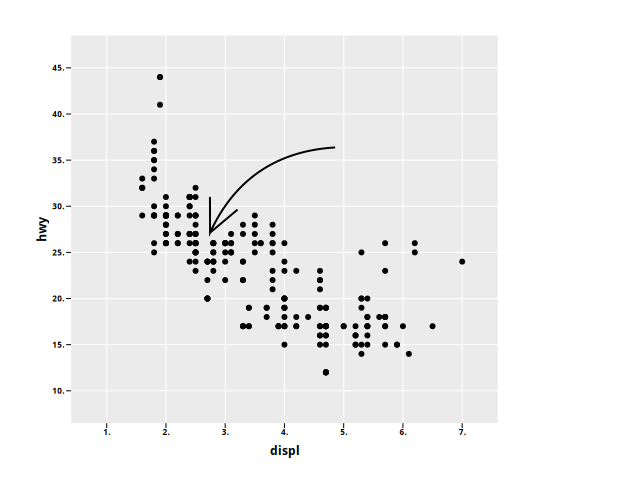
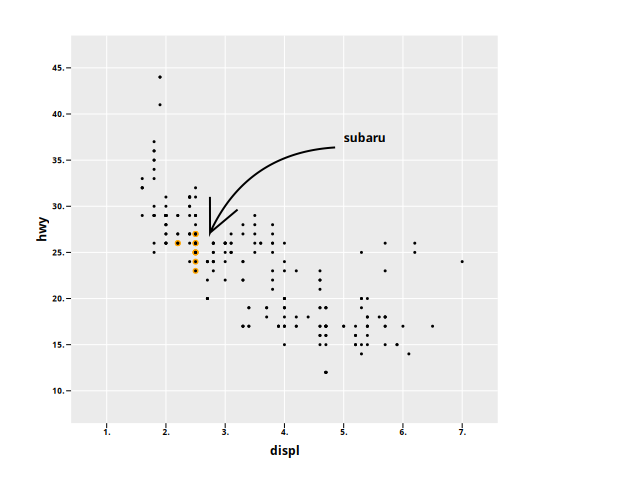
finish plot with curve and text annotation

Changed region(s): [[0.2188, 0.2812, 0.6875, 0.75], [0.5312, 0.2812, 0.5938, 0.3125], [0.625, 0.5, 0.6562, 0.5312]]

diff --git a/tests/test_plots.py b/tests/test_plots.py
@@ -515,12 +515,17 @@ def test_lines():
 
 
 def test_annotate_curve():
+    # from here https://ggplot2-book.org/annotations.html
     mpg = pd.read_csv(data_path / "mpg.csv")
     mpg["hwy"] = mpg["hwy"].astype(float)
     plot = (
         ggplot(mpg, aes("displ", "hwy"))
-        + geom_point()
+        + geom_point(
+            data=mpg.loc[mpg["manufacturer"] == "subaru"], color="orange", size=3
+        )
+        + geom_point(size=1.5)
         + annotate_curve(x=5, y=38, xend=3, yend=30, curvature=-0.3, arrow=True)
+        + annotate_text(text="subaru", x=5, y=37, background_color="transparent")
     )
     res = ggcreate(plot)
     ggdraw_plot(res, plots_path / "annotate_curve.png")

diff --git a/src/python_ggplot/gg/drawing.py b/src/python_ggplot/gg/drawing.py
@@ -56,8 +56,8 @@ class GetXYContinueException(GGException):
 
 @dataclass
 class GetXY:
-    x_series: 'pd.Series[Any]'
-    y_series: 'pd.Series[Any]'
+    x_series: "pd.Series[Any]"
+    y_series: "pd.Series[Any]"
     x_outside_range: OutsideRangeKind
     y_outside_range: OutsideRangeKind
     filled_geom: FilledGeom

diff --git a/README.md b/README.md
@@ -319,10 +319,16 @@ ggdraw_plot(res, plots_path / "geom_point_and_text.png")
 ```python
     mpg = pd.read_csv(data_path / "mpg.csv")
     mpg["hwy"] = mpg["hwy"].astype(float)
-    plot = ggplot(
-        mpg, aes("displ", "hwy")
-    ) + geom_point() + annotate_curve(
-        x = 5, y = 38, xend = 3, yend = 30, curvature=-0.3
+    plot = (
+        ggplot(mpg, aes("displ", "hwy"))
+        + geom_point(
+            data=mpg.loc[mpg["manufacturer"] == "subaru"], color="orange", size = 3
+        )
+        + geom_point(size=1.5)
+        + annotate_curve(x=5, y=38, xend=3, yend=30, curvature=-0.3, arrow=True)
+        + annotate_text(
+            text="subaru", x = 5, y = 37, background_color="transparent"
+        )
     )
     res = ggcreate(plot)
     ggdraw_plot(res, plots_path / "annotate_curve.png")
